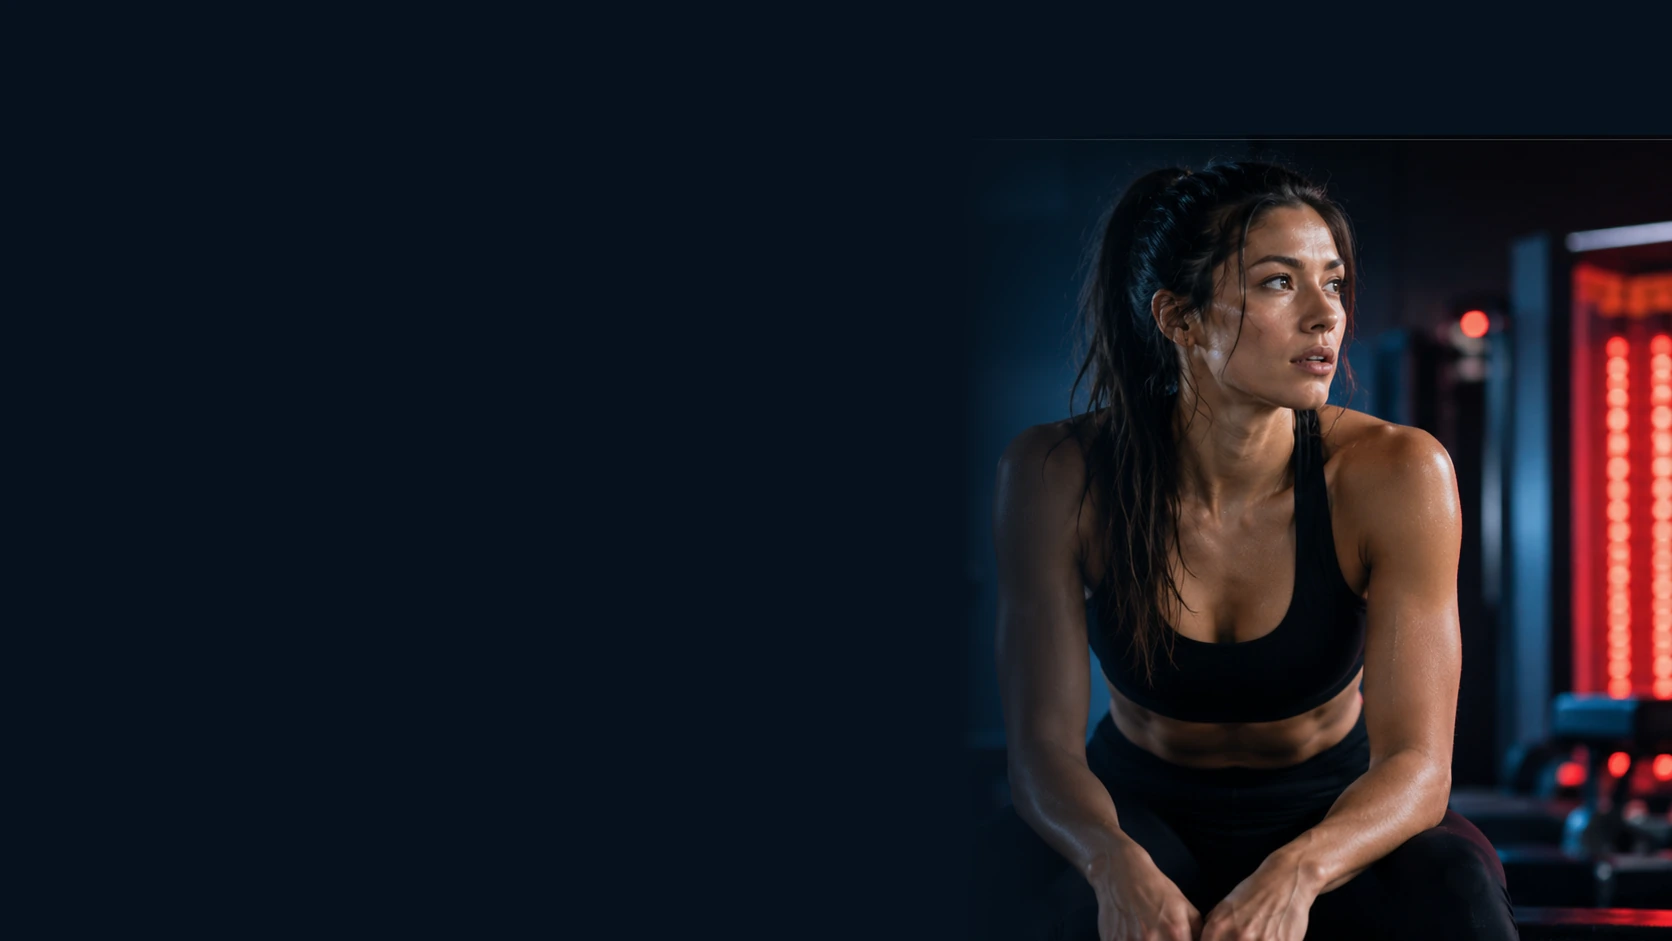
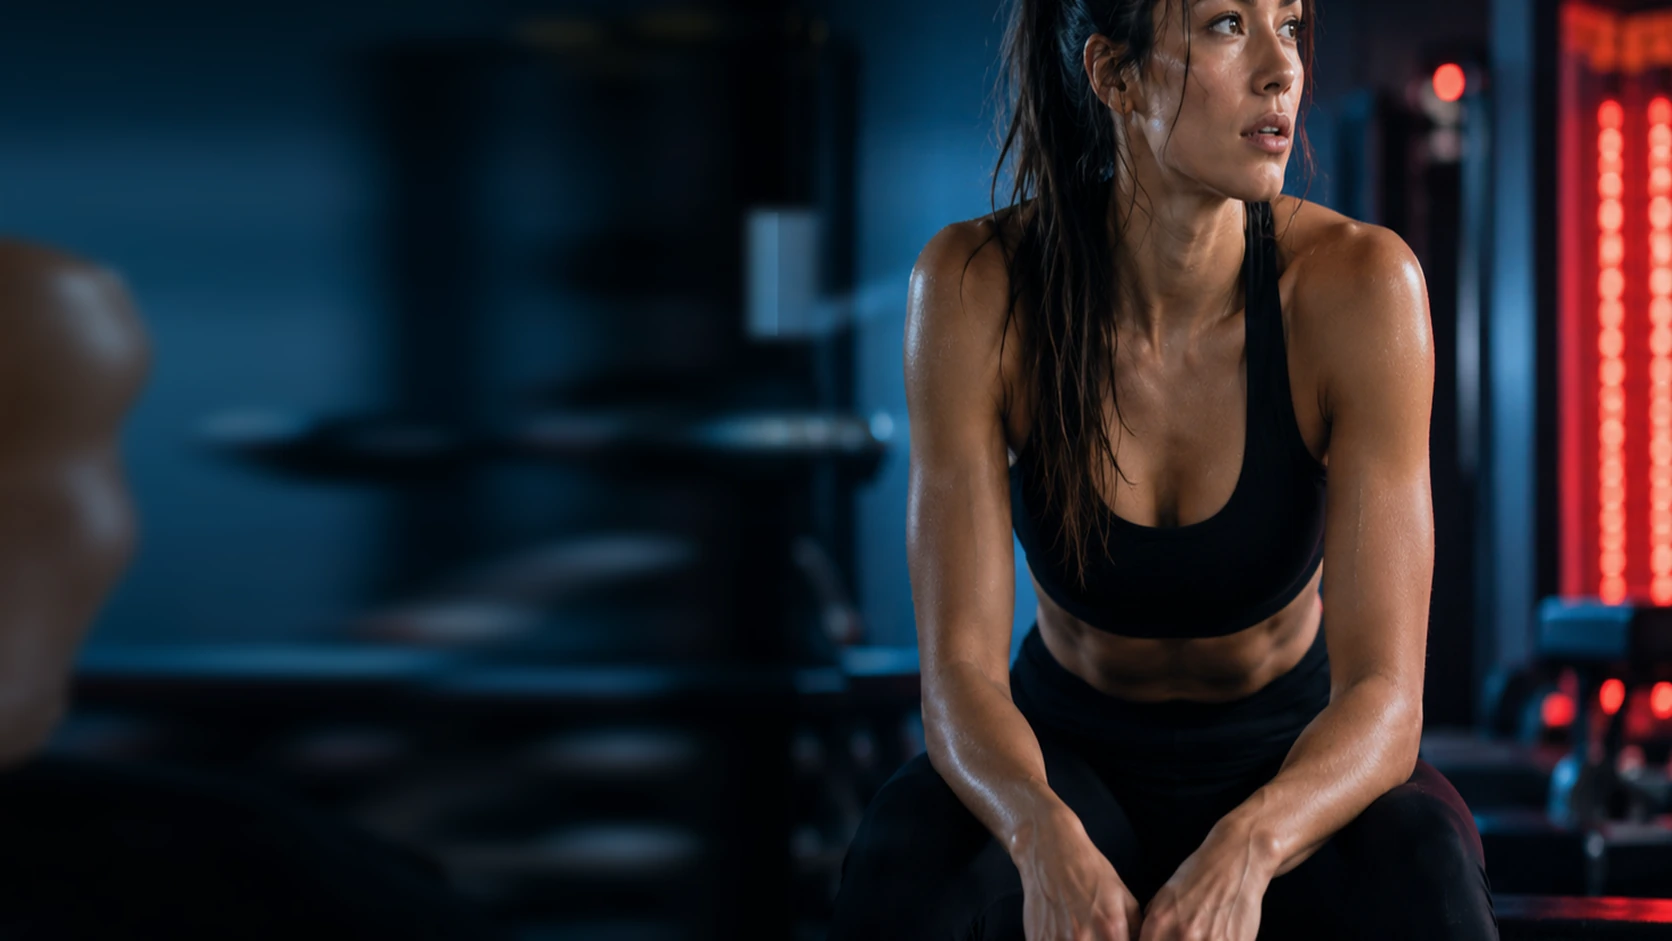
Add files via upload

diff --git a/styles.css b/styles.css
@@ -35,3 +35,11 @@
 @media(max-width:1050px){.hero-photo{inset:0;width:100%;height:100%;background-size:cover;background-position:62% center}}
 @media(max-width:740px){.hero-photo{inset:0;width:100%;height:100%;background-image:linear-gradient(0deg,#06111d 0%,rgba(6,17,29,.94) 27%,rgba(6,17,29,.18) 68%),url("assets/apex-woman-hero.webp");background-size:100% 100%,auto 64%;background-position:center,right top;background-repeat:no-repeat}.hero-inner{padding-top:310px;padding-bottom:75px}.hero:after{background:none}}
 @media(max-width:430px){.hero-inner{padding-top:285px}}
+
+/* Full-bleed gym photograph across the entire hero; no solid-color left panel. */
+.hero{background:#06111d}
+.hero-photo{position:absolute;inset:0;width:100%;height:100%;opacity:1;filter:none;background-image:linear-gradient(90deg,rgba(3,10,19,.52) 0%,rgba(3,10,19,.34) 39%,rgba(3,10,19,.02) 76%),url("assets/apex-woman-hero.webp");background-size:cover;background-position:center center;background-repeat:no-repeat}
+.hero:after{background:linear-gradient(0deg,rgba(6,17,29,.68),transparent 25%)}
+@media(max-width:1050px){.hero-photo{background-size:cover;background-position:60% center}}
+@media(max-width:740px){.hero-photo{inset:0;width:100%;height:100%;background-image:linear-gradient(0deg,rgba(6,17,29,.95) 0%,rgba(6,17,29,.80) 37%,rgba(6,17,29,.06) 85%),url("assets/apex-woman-hero.webp");background-size:cover;background-position:72% center}.hero-inner{padding-top:310px;padding-bottom:75px}.hero:after{background:none}}
+@media(max-width:430px){.hero-inner{padding-top:285px}}

diff --git a/README.md b/README.md
@@ -1,1 +1,1 @@
-APEX full-bleed woman athlete hero update. Replace index.html, styles.css, script.js and assets/apex-woman-hero.webp in your existing repository. Keep your original assets/image-02.webp through image-06.webp for the technology cards. Hero uses a derived crop of the previously generated concept reference, with embedded interface text excluded; the real website text and buttons remain HTML. No build step required.
+APEX full-width photographic hero. Replace index.html, styles.css, script.js and assets/apex-woman-hero.webp in the existing repository. Keep existing assets/image-02.webp through image-06.webp for technology cards. The left half now contains atmospheric gym imagery rather than a solid color. All website text and buttons remain HTML. The woman remains on the right. No build step.
